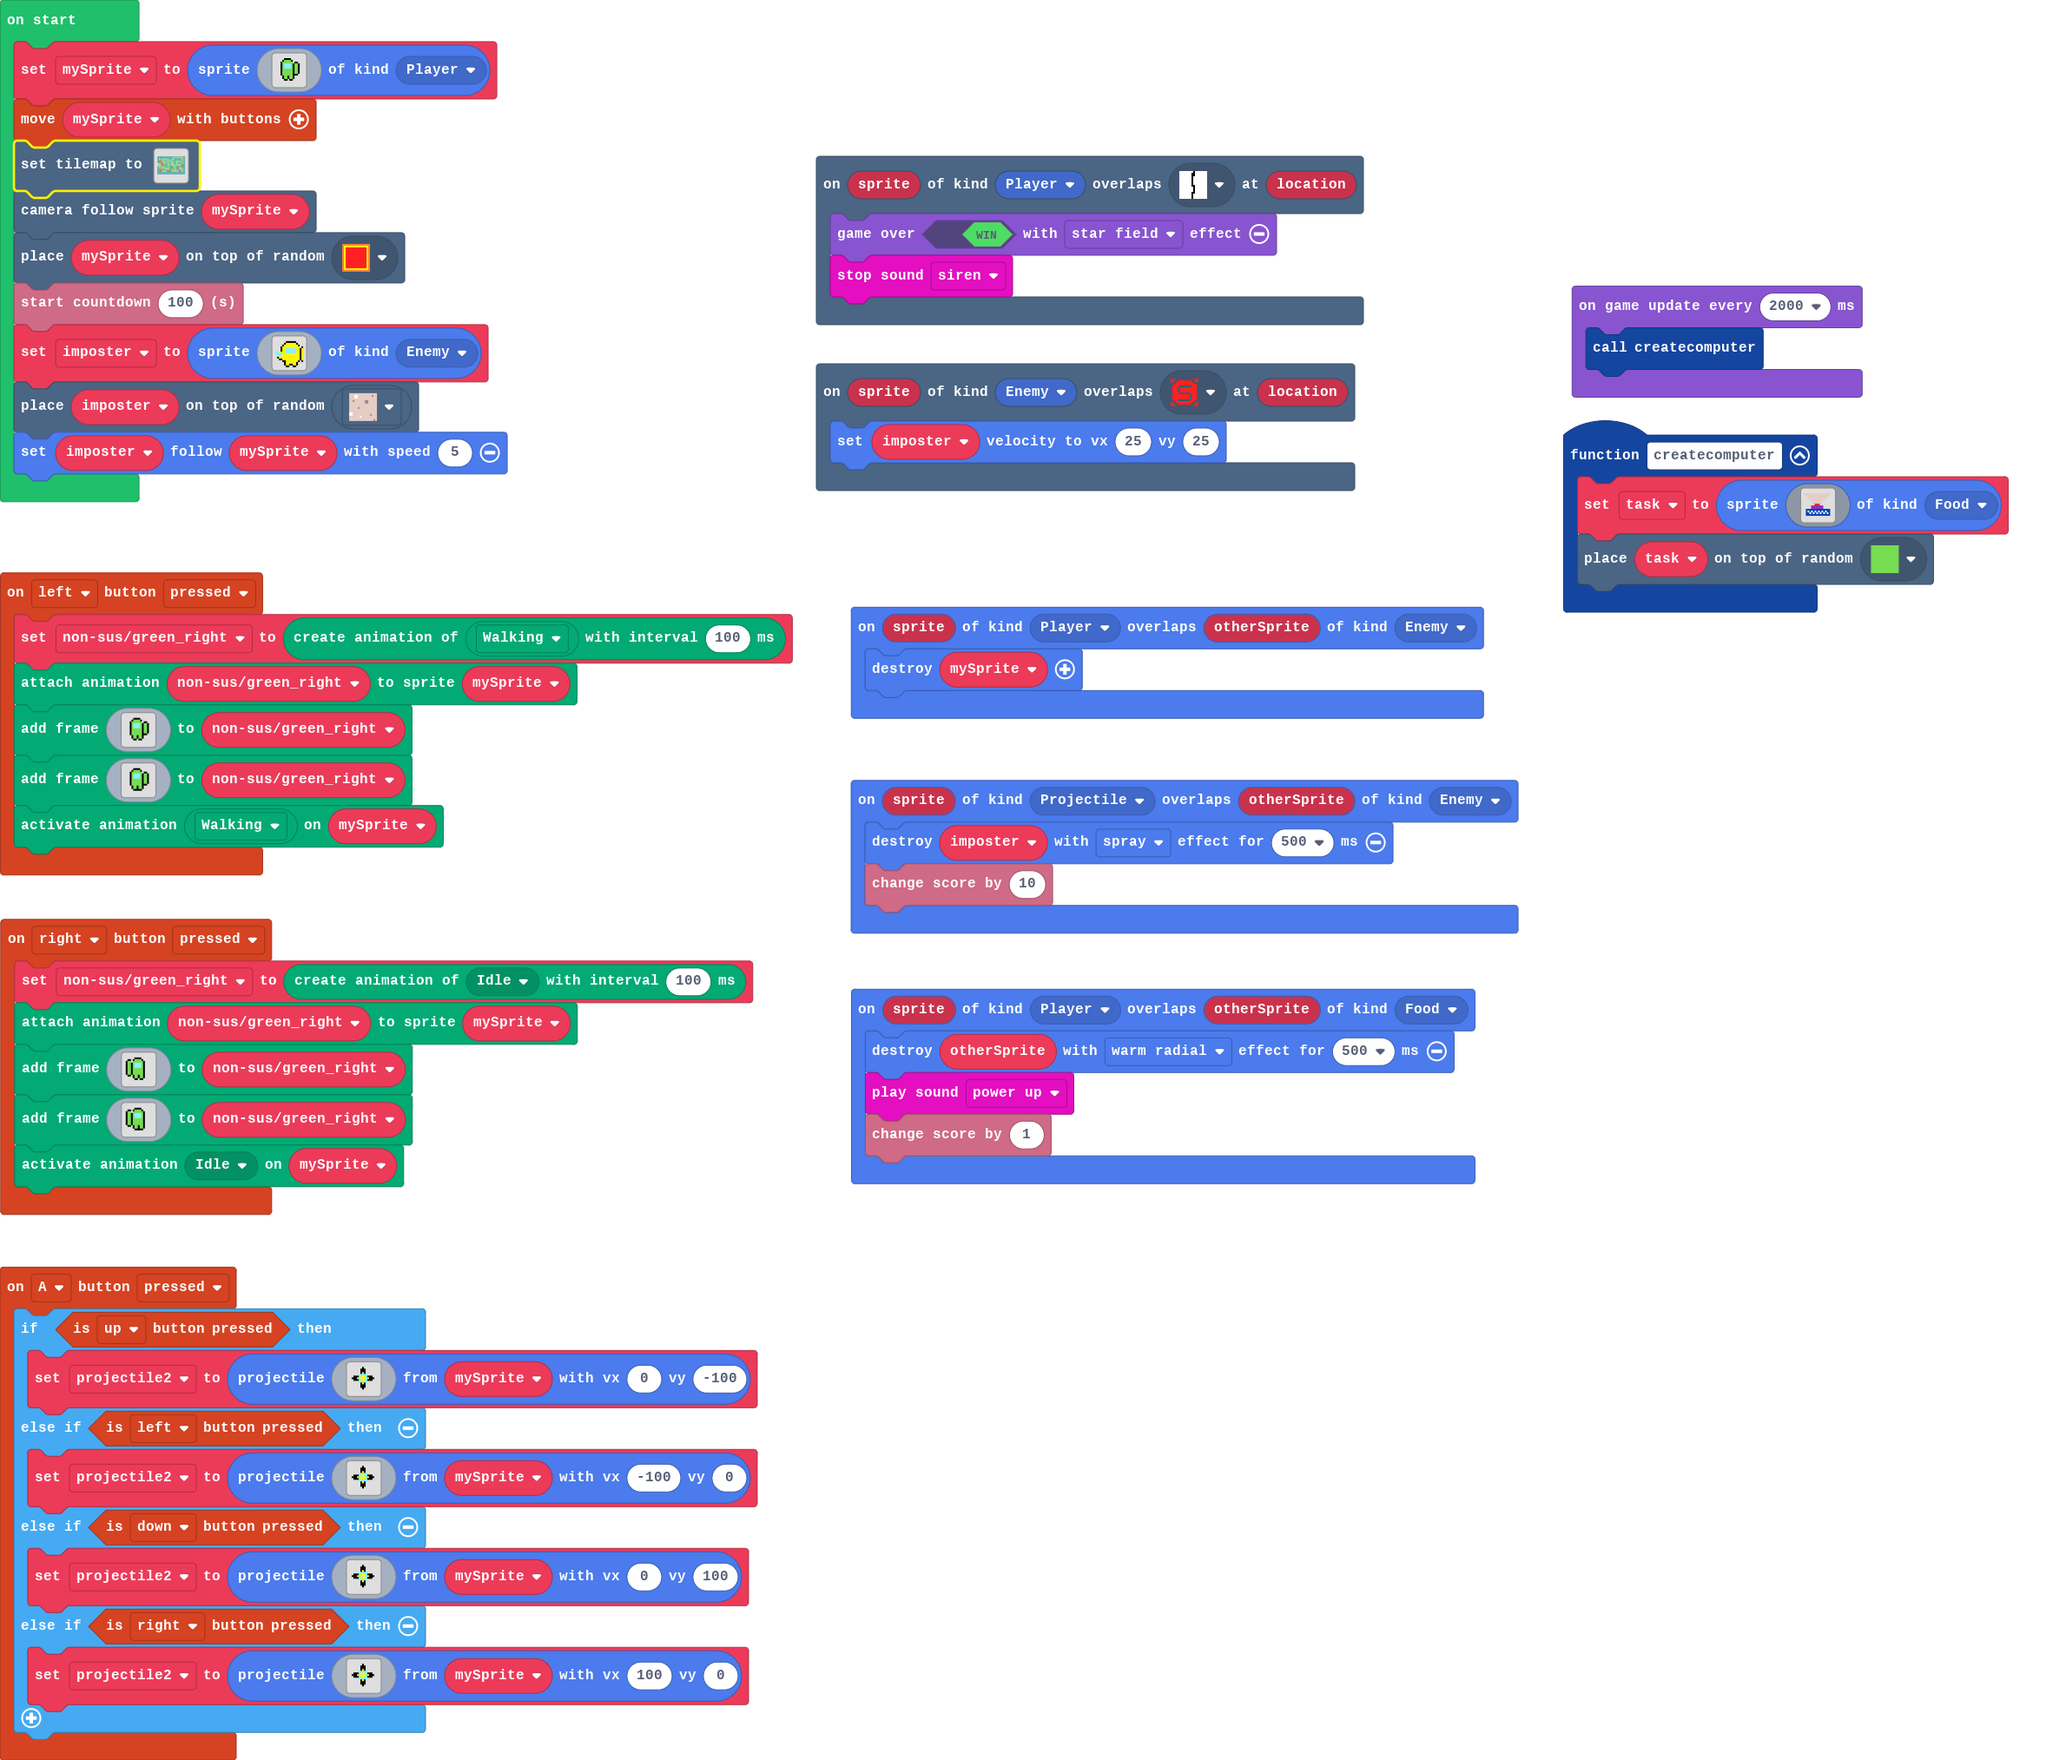
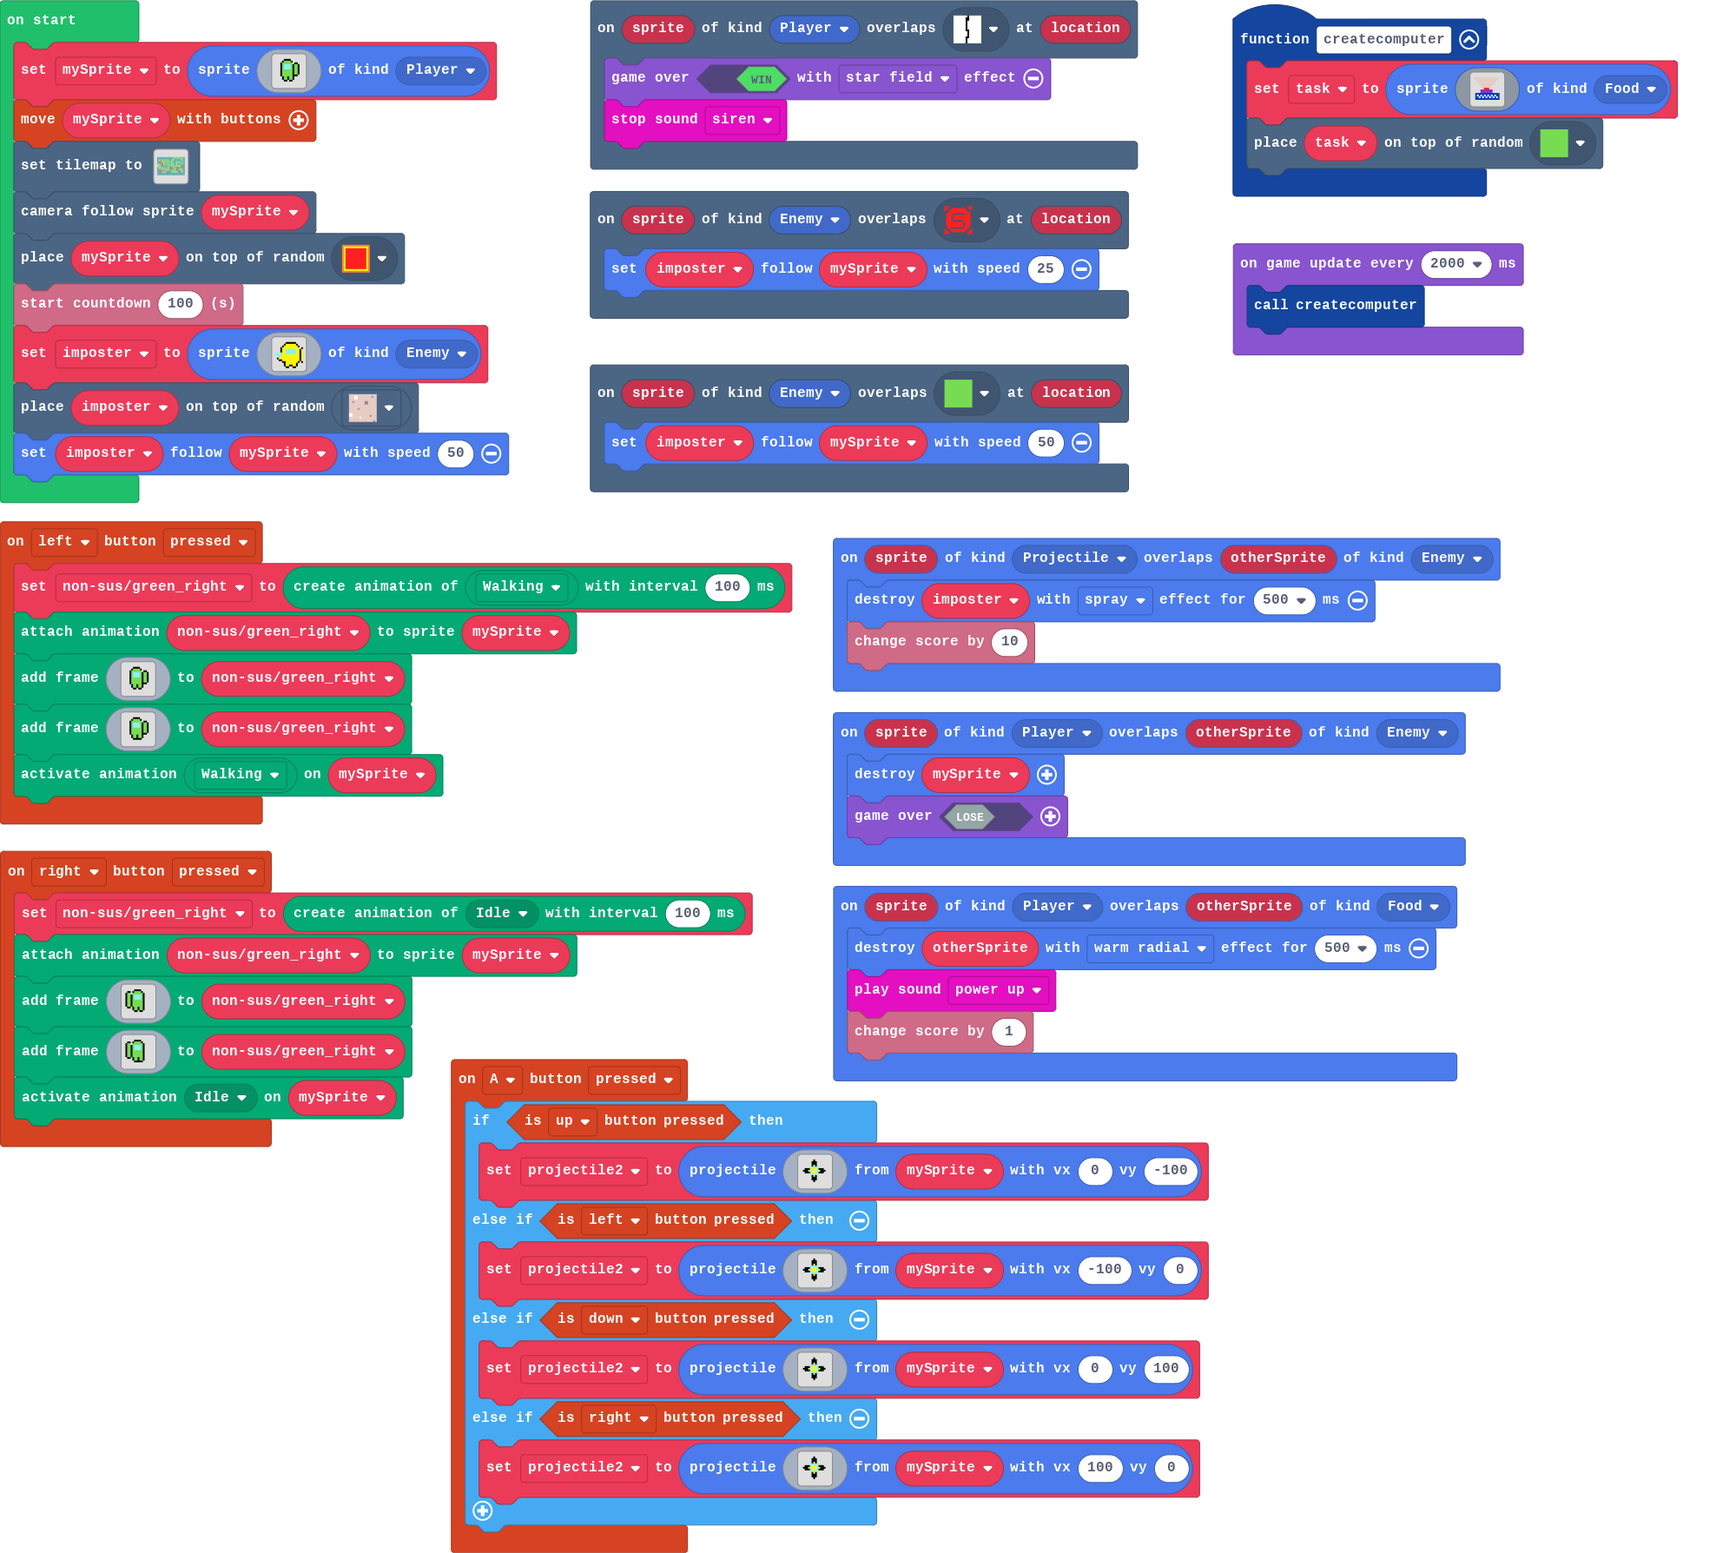
Update main.blocks, main.ts

diff --git a/main.ts b/main.ts
@@ -150,7 +150,7 @@ function createcomputer () {
     tiles.placeOnRandomTile(task, myTiles.tile1)
 }
 scene.onOverlapTile(SpriteKind.Enemy, myTiles.tile6, function (sprite, location) {
-    imposter.setVelocity(25, 25)
+    imposter.follow(mySprite, 25)
 })
 controller.right.onEvent(ControllerButtonEvent.Pressed, function () {
     nonsusgreen_right = animation.createAnimation(ActionKind.Idle, 100)
@@ -198,12 +198,16 @@ sprites.onOverlap(SpriteKind.Player, SpriteKind.Food, function (sprite, otherSpr
     music.powerUp.play()
     info.changeScoreBy(1)
 })
+scene.onOverlapTile(SpriteKind.Enemy, myTiles.tile1, function (sprite, location) {
+    imposter.follow(mySprite, 50)
+})
 sprites.onOverlap(SpriteKind.Projectile, SpriteKind.Enemy, function (sprite, otherSprite) {
     imposter.destroy(effects.spray, 500)
     info.changeScoreBy(10)
 })
 sprites.onOverlap(SpriteKind.Player, SpriteKind.Enemy, function (sprite, otherSprite) {
     mySprite.destroy()
+    game.over(false)
 })
 let task: Sprite = null
 let nonsusgreen_right: animation.Animation = null
@@ -283,7 +287,7 @@ imposter = sprites.create(img`
     . . . . . . f f . . f f . . . . 
     `, SpriteKind.Enemy)
 tiles.placeOnRandomTile(imposter, sprites.castle.tilePath5)
-imposter.follow(mySprite, 5)
+imposter.follow(mySprite, 50)
 game.onUpdateInterval(2000, function () {
     createcomputer()
 })
